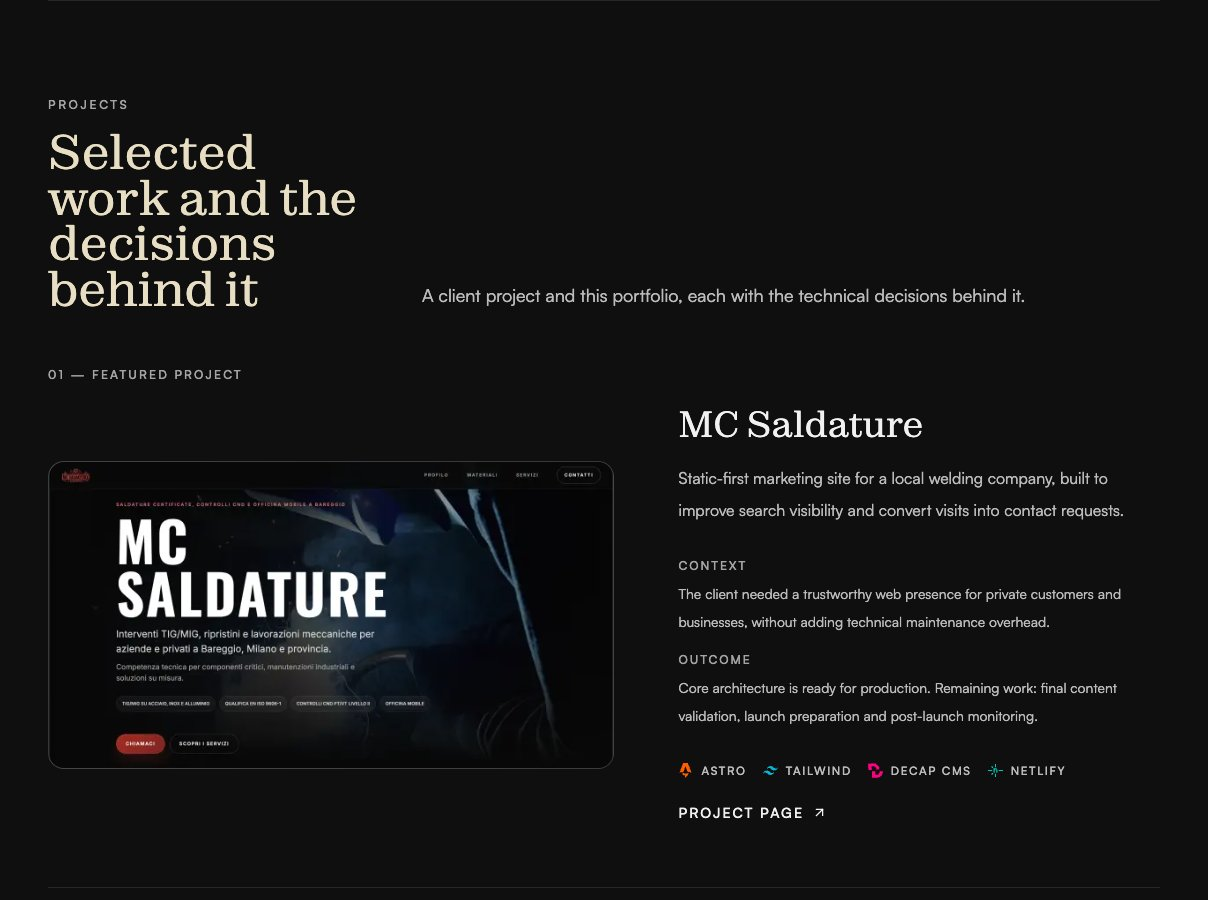
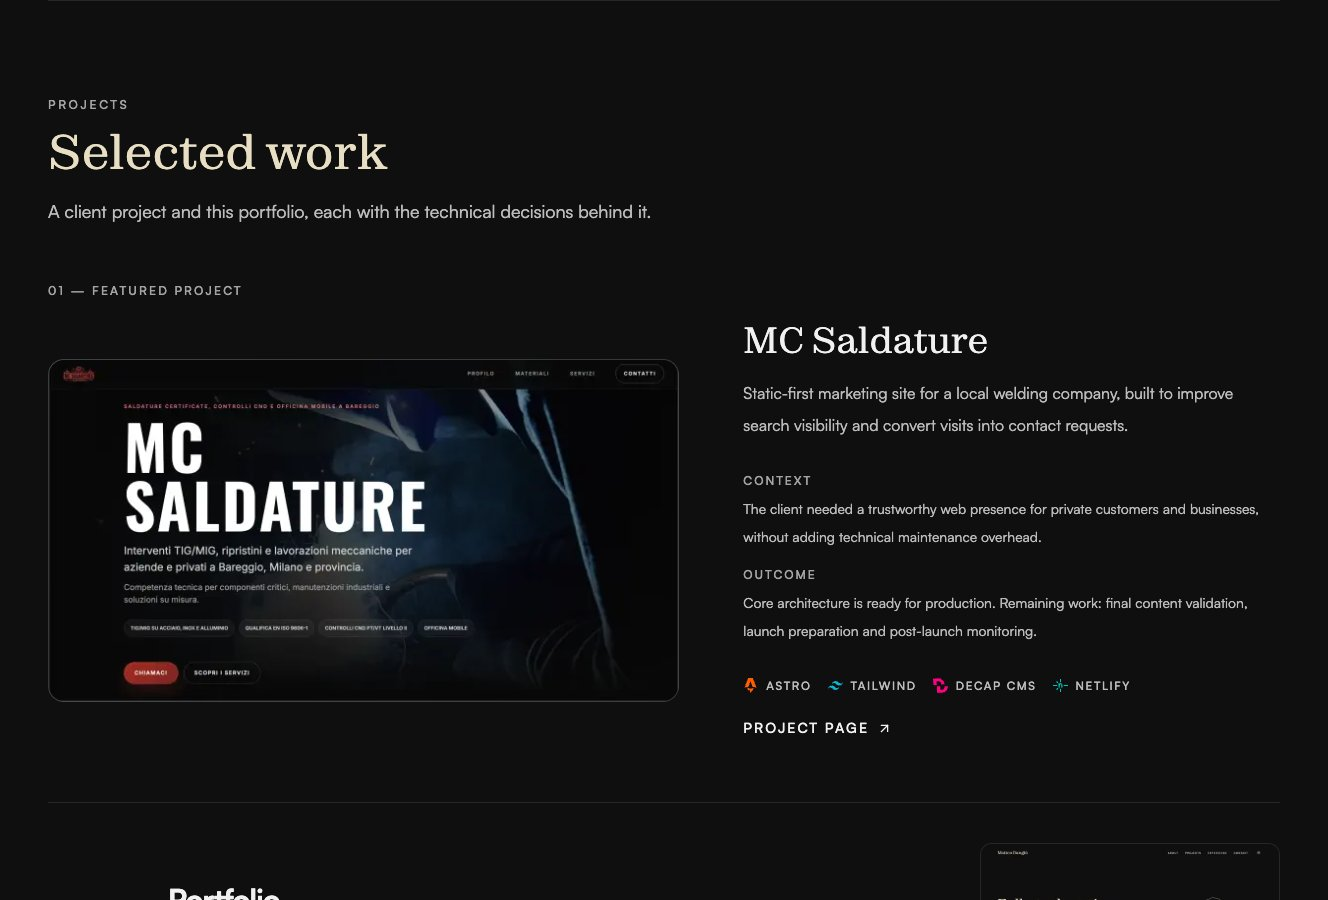
feat(projects): one-line 'Selected work' header; refresh portfolio screenshots

diff --git a/src/data/projects.ts b/src/data/projects.ts
@@ -182,20 +182,20 @@ export const projects: IProjectShowcaseItem[] = [
     ],
     stack: ["Next.js", "React", "Tailwind CSS", "TypeScript"],
     heroImage: {
-      src: "/images/projects/personal-portfolio/hero-homepage-v3.jpg",
+      src: "/images/projects/personal-portfolio/hero-homepage-v4.jpg",
       alt: "Homepage preview of the personal portfolio",
       caption:
         "The homepage presents work and experience through a clear hierarchy and dedicated navigation.",
     },
     gallery: [
       {
-        src: "/images/projects/personal-portfolio/projects-section-v3.jpg",
+        src: "/images/projects/personal-portfolio/projects-section-v4.jpg",
         alt: "Projects section of the personal portfolio",
         caption:
           "The projects section is driven by centralized TypeScript data.",
       },
       {
-        src: "/images/projects/personal-portfolio/project-detail-page-v3.jpg",
+        src: "/images/projects/personal-portfolio/project-detail-page-v4.jpg",
         alt: "Project detail page of the personal portfolio",
         caption:
           "Dynamic project pages create space for decisions, content and visuals.",
@@ -269,7 +269,7 @@ export const projects: IProjectShowcaseItem[] = [
 
 export const projectLabel: ISectionLabel = {
   sectionTitle: "Projects",
-  title: "Selected work and the decisions behind it",
+  title: "Selected work",
   description1:
     "A client project and this portfolio, each with the technical decisions behind it.",
   subtitle1: "01 — Featured project",

diff --git a/src/components/sections/featuredProjects.tsx b/src/components/sections/featuredProjects.tsx
@@ -69,7 +69,7 @@ export default function FeaturedProjects() {
       aria-labelledby="projects-title"
     >
       <motion.div
-        className="mb-14 grid grid-cols-1 gap-8 xl:grid-cols-[minmax(0,0.42fr)_minmax(0,1fr)] xl:gap-16"
+        className="mb-14"
         variants={fadeUp}
         initial="hidden"
         whileInView="visible"
@@ -94,9 +94,9 @@ export default function FeaturedProjects() {
           </h2>
         </div>
 
-        <div className="flex items-end">
+        <div>
           <p
-            className="max-w-2xl text-base leading-8 md:text-lg"
+            className="mt-5 max-w-2xl text-base leading-8 md:text-lg"
             style={{ color: "var(--text-muted)" }}
           >
             {projectLabel.description1}
